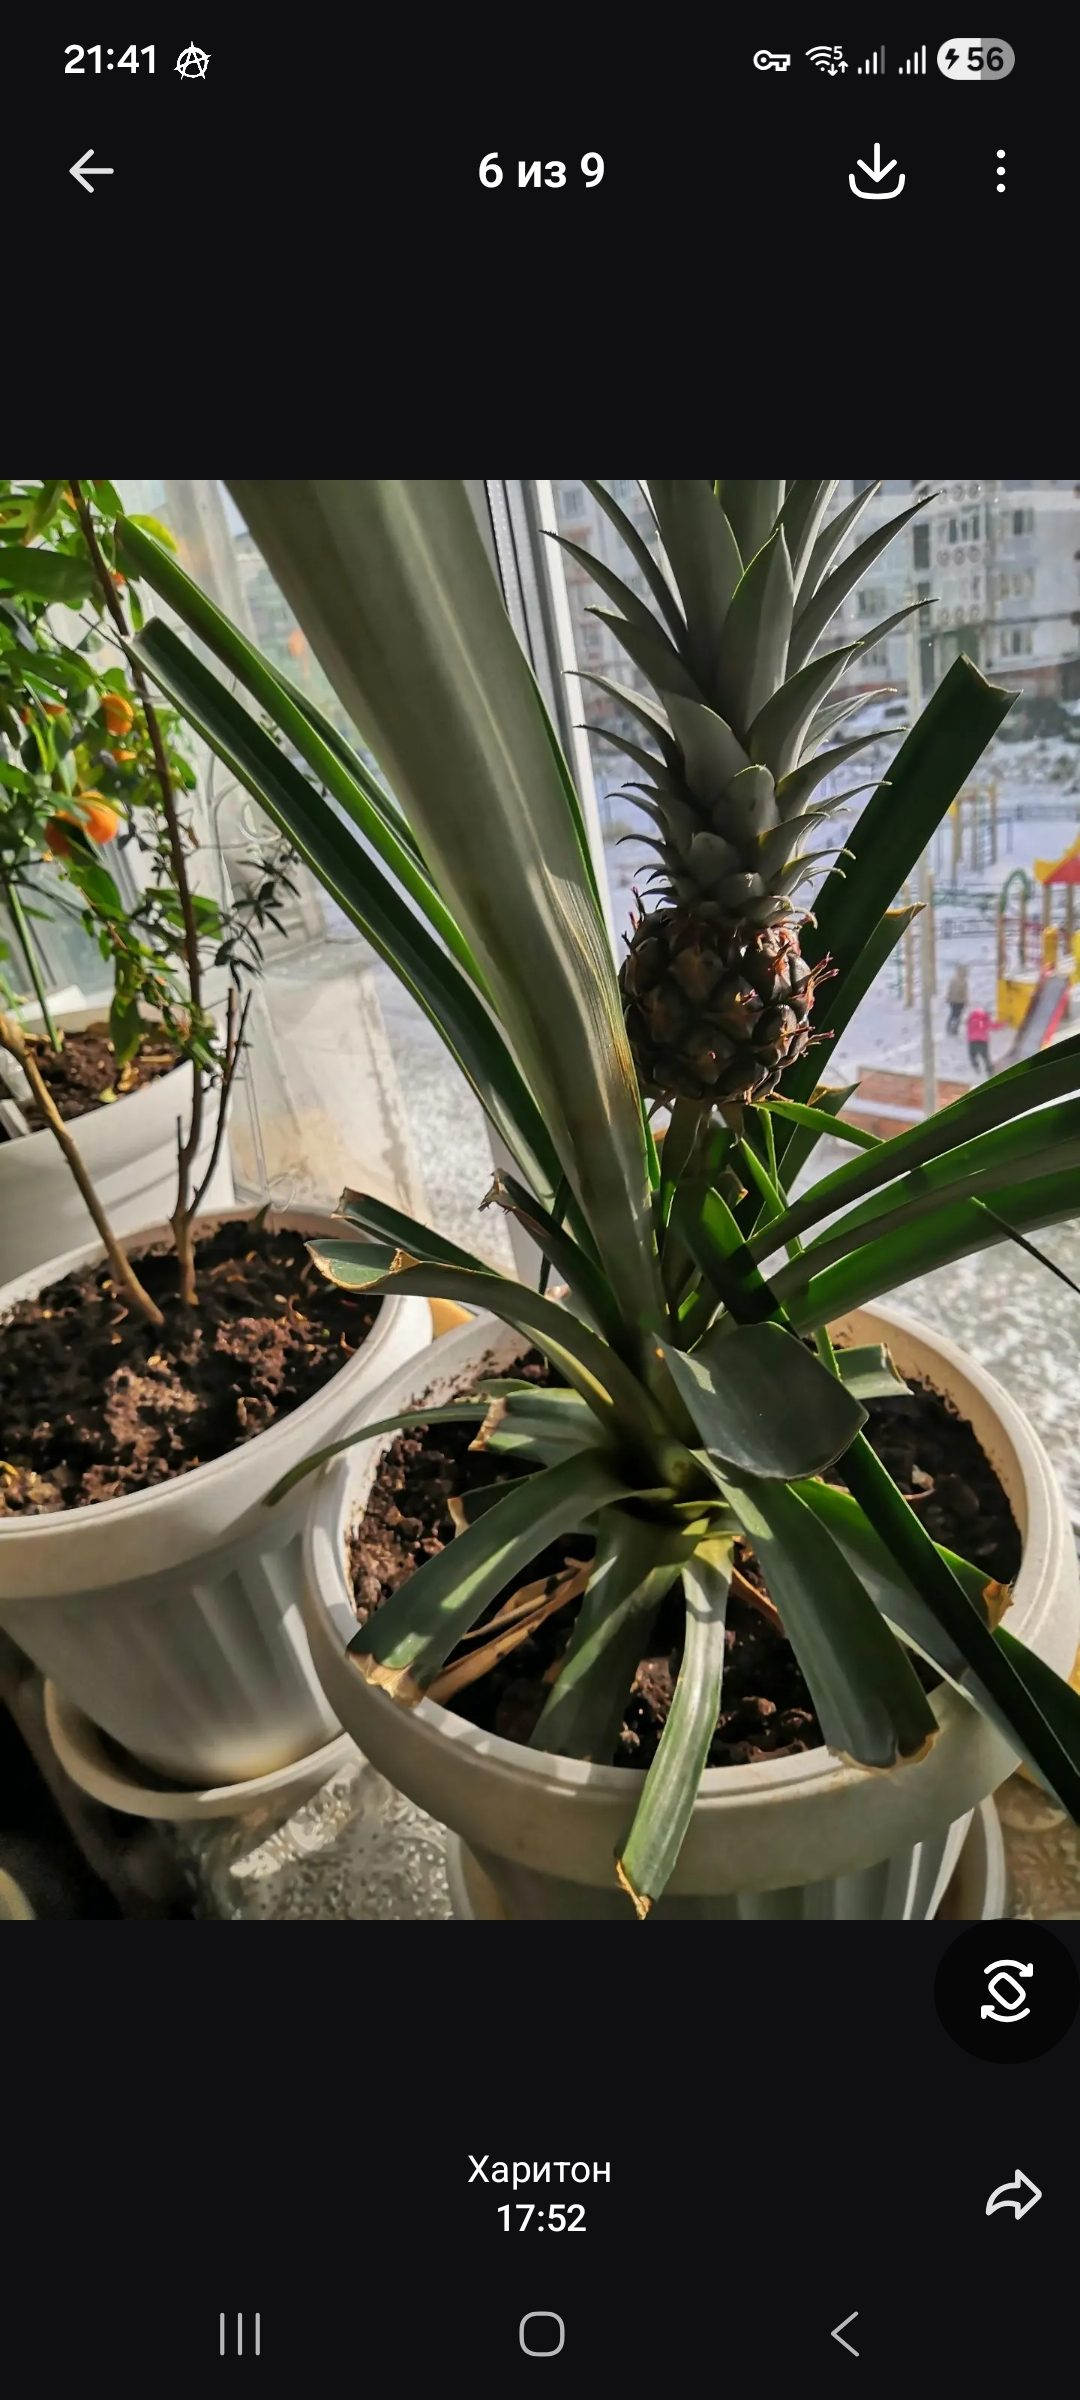
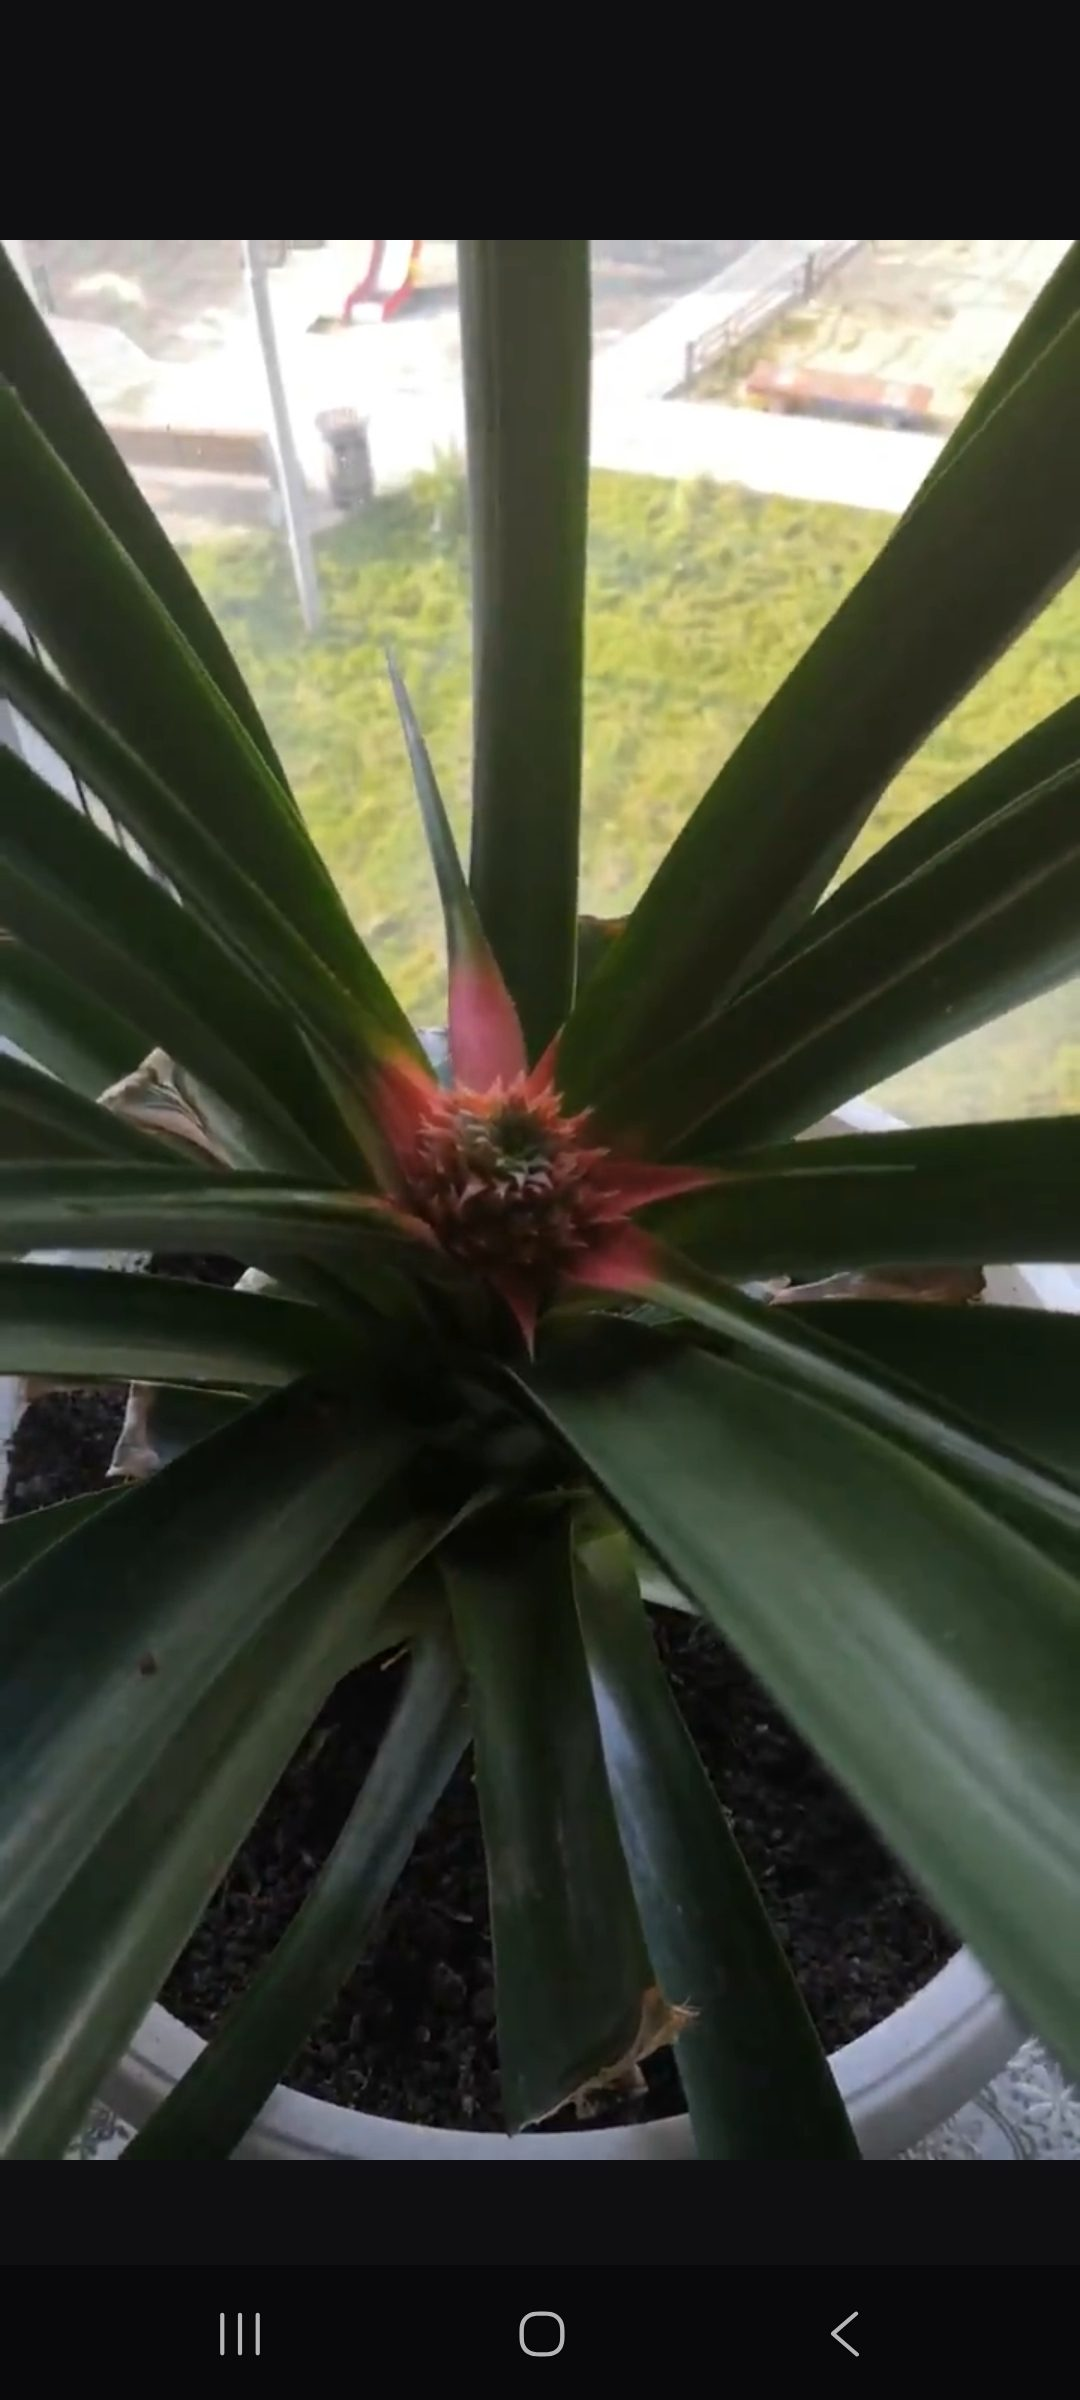
content: swap 3 cover photos for better owner shots
Ананас - другой ракурс, толстянка и грунт - собственные фото автора
вместо стоковых Wikimedia (убраны чужие подписи авторства).

diff --git a/src/content/articles/kak-vybrat-grunt-dlya-komnatnyh-rasteniy.md b/src/content/articles/kak-vybrat-grunt-dlya-komnatnyh-rasteniy.md
@@ -14,10 +14,6 @@ products:
     blurb: Универсальная добавка для улучшения дренажа практически в любой грунт.
 cover: /images/photos/kak-vybrat-grunt-dlya-komnatnyh-rasteniy.jpg
 coverAlt: 'Как выбрать грунт для комнатных растений'
-coverCredit:
-  author: 'peganum from Henfield, England'
-  license: 'CC BY-SA 2.0'
-  sourceUrl: 'https://commons.wikimedia.org/wiki/File:Why_I_hate_peat-based_composts_(9491832797).jpg'
 ---
 
 Полки магазинов пестрят десятками видов грунта: универсальный, для орхидей, для суккулентов, для фикусов — и новичку немудрено растеряться. На деле разобраться в базовых принципах несложно, и это позволяет не переплачивать за специализированные смеси там, где вообще-то хватило бы простого выбора.

diff --git a/src/content/articles/tolstyanka-uhod-za-denezhnym-derevom.md b/src/content/articles/tolstyanka-uhod-za-denezhnym-derevom.md
@@ -11,10 +11,6 @@ products:
     blurb: Толстянка не переносит застой воды в горшке — слой дренажа на дне обязателен.
 cover: /images/photos/tolstyanka-uhod-za-denezhnym-derevom.jpg
 coverAlt: 'Толстянка: уход за денежным деревом'
-coverCredit:
-  author: 'Abu Shawka'
-  license: 'Public domain'
-  sourceUrl: 'https://commons.wikimedia.org/wiki/File:Crassula_ovata_-_Jade_Plant_-_South_Africa_6.JPG'
 ---
 
 Толстянку (крассулу) в народе называют денежным деревом за круглые листья, похожие на монеты. Слухи о богатстве оставим суевериям, а вот уход у неё действительно простой — это суккулент, который прощает забывчивость лучше многих комнатных растений.
